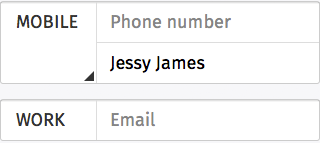
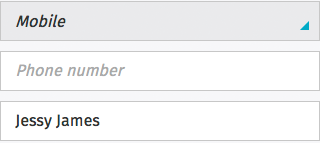
fixed input areas examples

diff --git a/_includes/building-blocks/input_areas_3.html b/_includes/building-blocks/input_areas_3.html
@@ -1,36 +1,14 @@
-<!-- form used at the top of the page with fixed/absolute position and content scrolls underneath -->
+<form role="search">
+  <p>
+    <input placeholder="Search..." type="text">
+    <button type="reset">Clear</button>
+  </p>
+</form>
+
 <form role="search">
   <button type="submit">Cancel</button>
   <p>
-    <input type="text" placeholder="Search..." required="">
+    <input placeholder="Search..." value="Some text here" type="text">
     <button type="reset">Clear</button>
-  </p>
-</form>
-<!-- form used under a header, this form scrolls together with the content underneath the header -->
-<section role="region">
-  <header>
-      <!-- here should be the content of the header -->
-  </header>
-  <form role="search" class="full">
-    <button type="submit">Send</button>
-    <p>
-      <input type="text" placeholder="Search..." required="">
-      <button type="reset">Clear</button>
-    </p>
-  </form>
-</section>
-<form role="search" class="bottom">
-  <button class="icon icon-attachment">Attachment</button>
-  <button type="submit" disabled="">Send</button>
-  <p>
-    <input type="text" placeholder="Search..." required="">
-    <button type="reset">Clear</button>
-  </p>
-</form>
-<form role="search" class="bottom">
-  <button class="icon icon-attachment">Attachment</button>
-  <button type="submit">Send</button>
-  <p>
-    <textarea placeholder="Search..." required="">Some text here</textarea>
   </p>
 </form>

diff --git a/_includes/building-blocks/input_areas_2.html b/_includes/building-blocks/input_areas_2.html
@@ -12,13 +12,4 @@
       </p>
     </section>
   </fieldset>
-  <fieldset>
-    <legend>Work</legend>
-    <section>
-      <p>
-        <input type="tel" placeholder="Email" required="">
-        <button type="reset">Clear</button>
-      </p>
-    </section>
-  </fieldset>
 </form>
